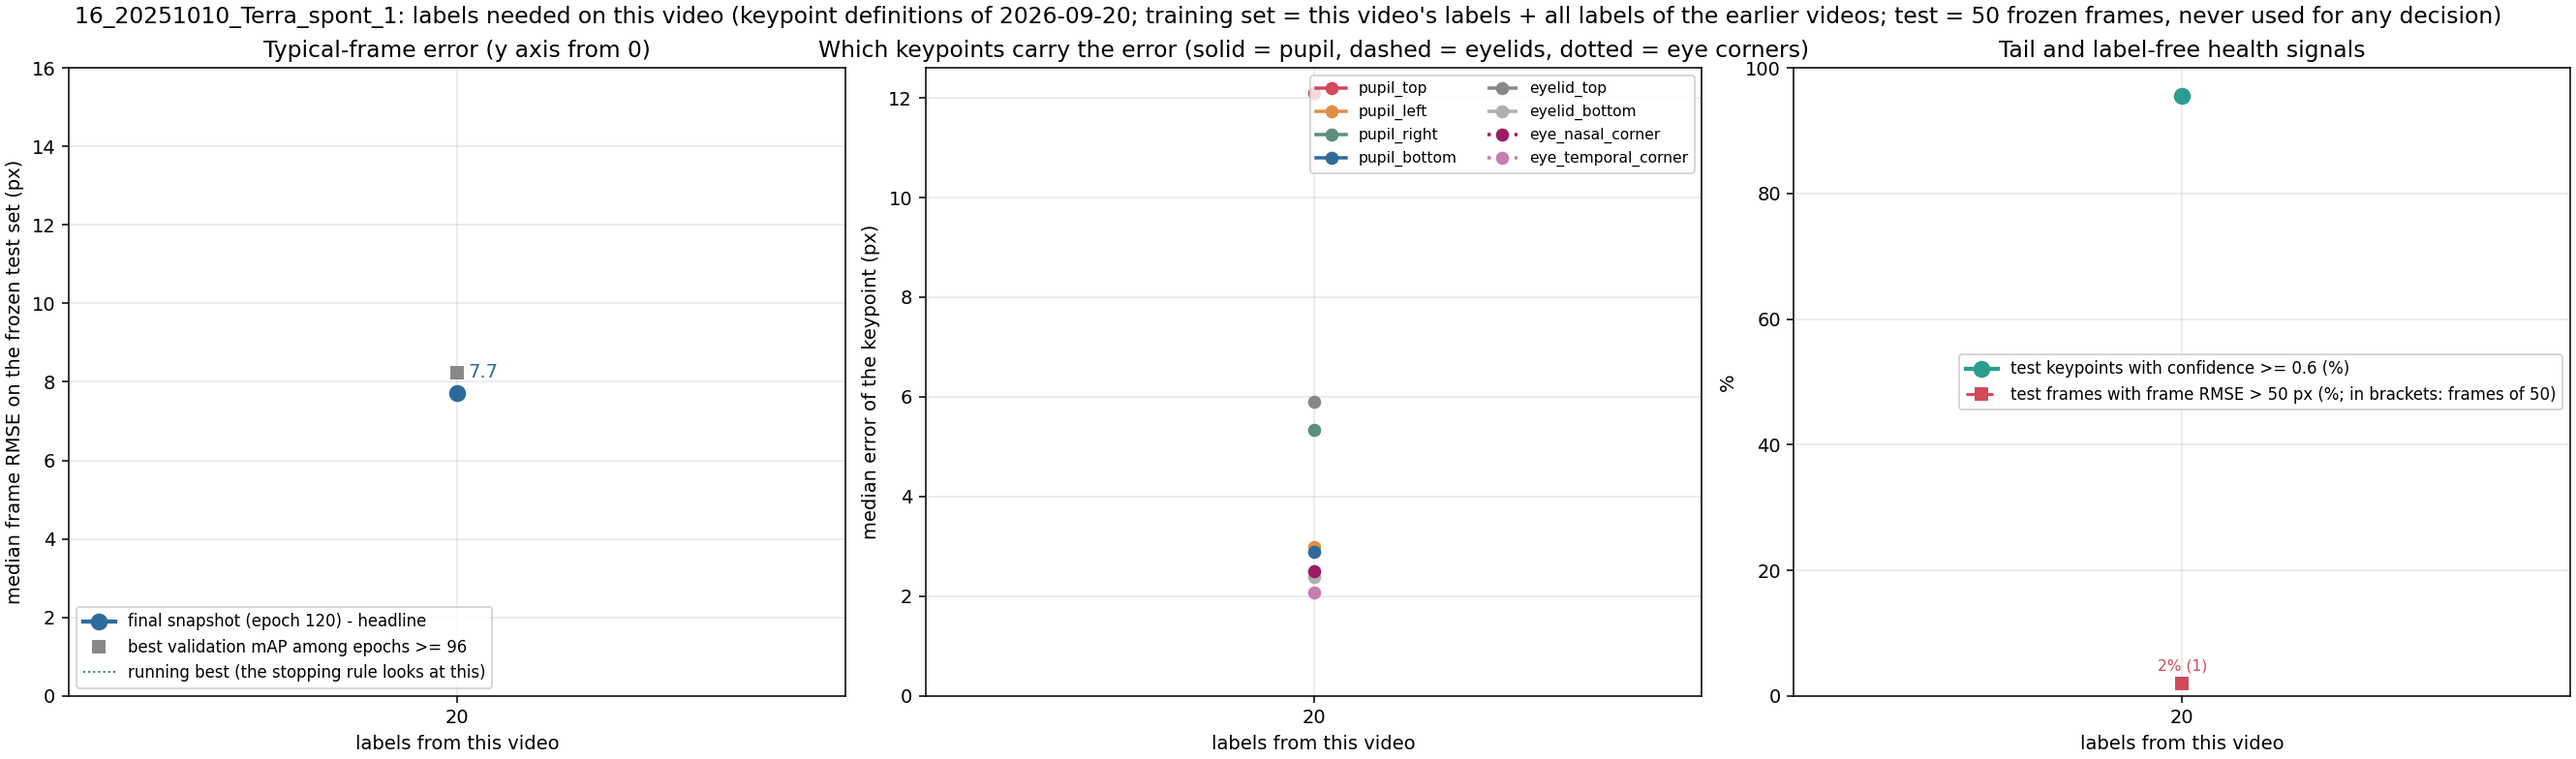
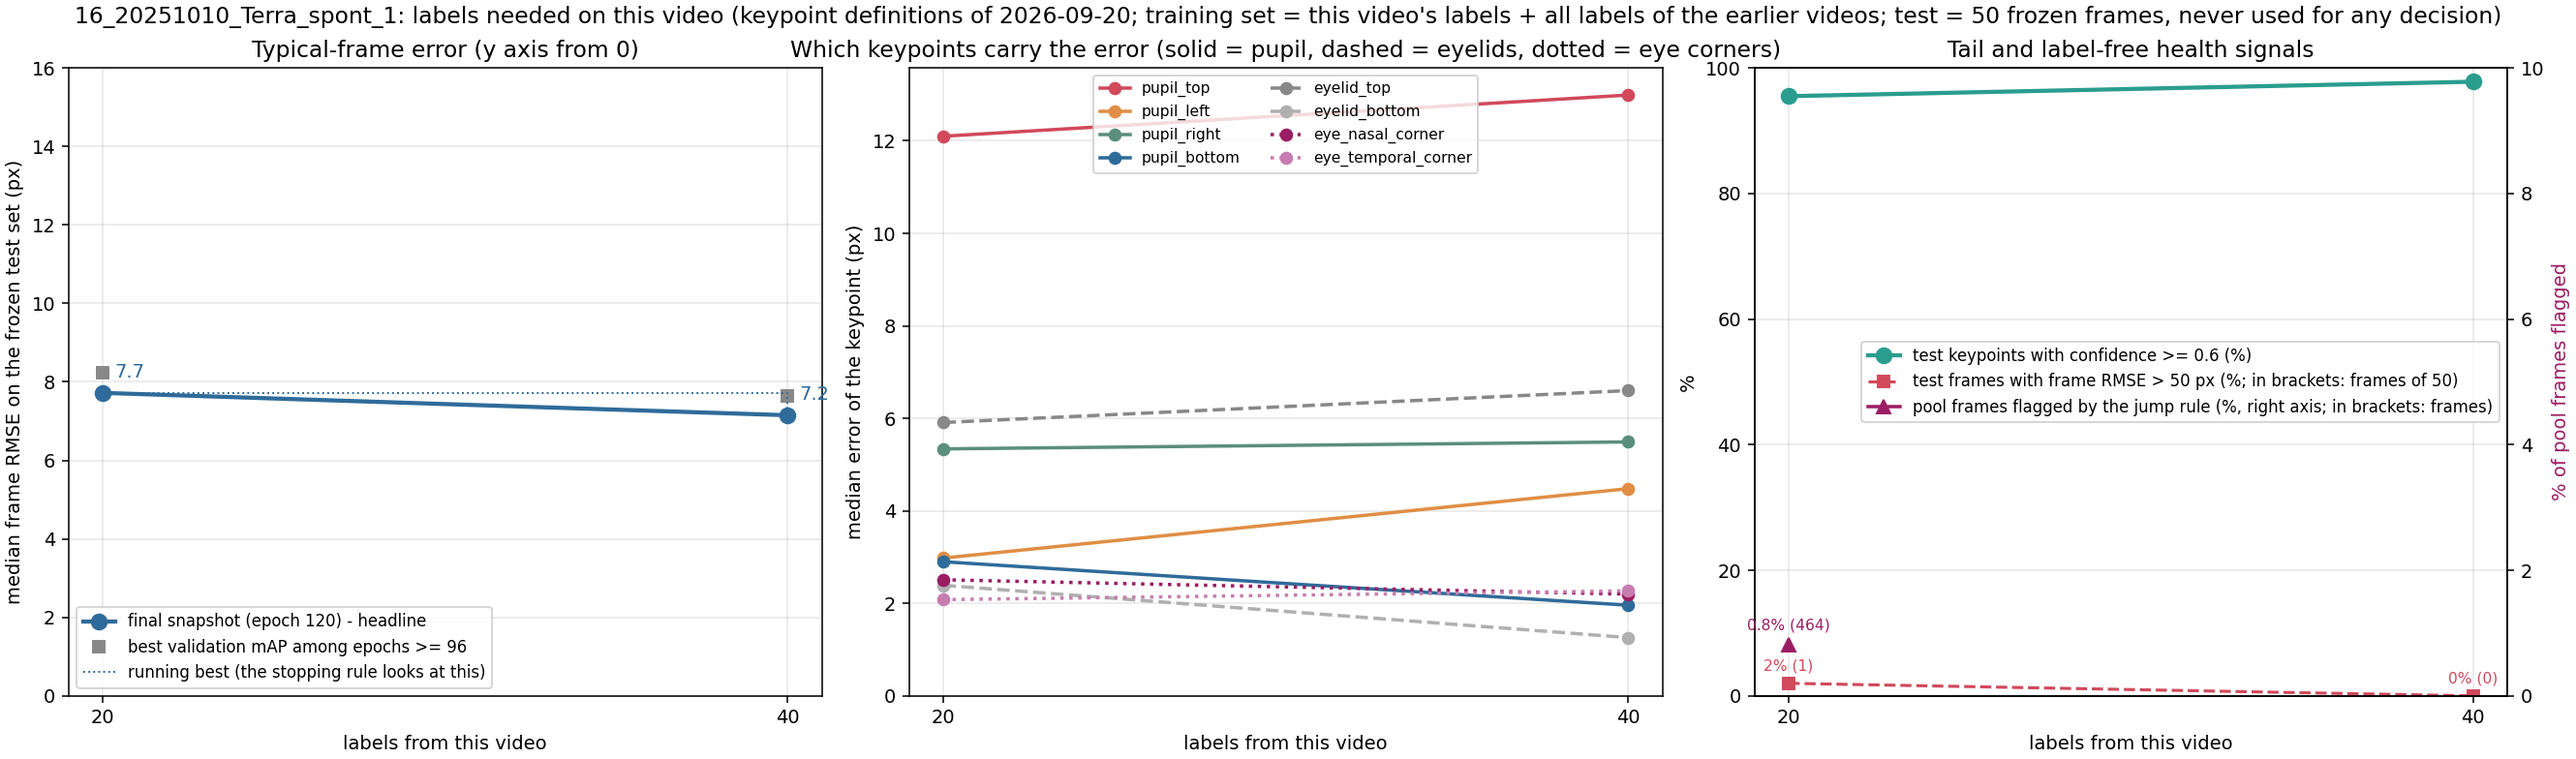
Video 16 step 2: 40 labels = 7.15 px (7.4% better than 7.72, improving step)

diff --git a/README.md b/README.md
@@ -29,7 +29,7 @@ per-frame predictions stay local; git carries code, documentation and audited ag
 | Finished | **video 13** (Terra, 2025-10-15, third video of mouse C): test50 / val20 / batch01 pre-labeled with the video-11 40-label model (1212) and corrected by the labeler (test50: 287 of 400 points moved), test set frozen; 0 labels (model 1212) = 69.13 px (56% of frames > 50 px: the model that fitted video 12 does not fit this day), 20 labels = 9.43 px, 40 labels = 9.44 px, 60 labels = 9.67 px (0% of frames > 50 px from 20 labels on): no step improves on 20 labels, the plateau rule fired at 60; **plateau at 20 labels, 9.43 px** (user decision 2026-10-06), tag `v0.9.15-video13-plateau`; batch01 (20 labels) carried, 600 labels go into video 14. Fewer-labels: 5 labels 10.46 / 16.03 px, 10 labels 11.24 / 10.29 px (first-batch size only, no jump selection afterwards; both above the 20-label 9.43 px). |
 | Finished | **video 14** (Terra, 2025-10-14, fourth video of mouse C): test50 / val20 / batch01 pre-labeled with the video-13 20-label model (1411) and corrected by the labeler (test50: 149 of 400 points moved), test set frozen; 0 labels (model 1411) = 13.33 px (16% of frames > 50 px), 20 labels = 10.83 px, 40 labels = 12.41 px, 60 labels = 10.30 px, 80 labels = 10.45 px, 100 labels = 10.24 px (2% of frames > 50 px from 20 labels on); 80 and 100 stay within 3% of 10.30, the plateau rule fired at 100; **plateau at 60 labels, 10.30 px** (user decision 2026-10-07), tag `v0.9.16-video14-plateau`; batches 1-3 (60 labels) carried, 660 labels go into video 15; batch 6 was selected but not labeled. Fewer-labels: 5 labels 10.93 / 10.22 px, 10 labels 9.82 / 10.06 px (first-batch size only, no jump selection afterwards; medians within 10% of the 20-label 10.83 px, subset 5b with 14% of frames > 50 px). |
 | Finished | **video 15** (Terra, 2025-10-13, fifth video of mouse C): frames extracted model-free; test50 pre-labeled with the video-14 20-label model (1511) before video 14's plateau was known (recorded as a deviation), val20 / batch01 with the plateau model 1513; 0 labels (model 1513) = 10.57 px, 20 labels = 11.42 px, 40 labels = 9.73 px, 60 labels = 9.61 px, 80 labels = 10.24 px (0-2% of frames > 50 px); 60 within 3% of 9.73 and 80 worse, the plateau rule fired at 80; **plateau at 40 labels, 9.73 px** (user decision 2026-10-08), tag `v0.9.17-video15-plateau`; batches 1-2 (40 labels) carried, 700 labels go into video 16; batch 5 selected but not labeled. Fewer-labels: 5 labels 12.55 / 9.82 px, 10 labels 11.09 / 9.31 px (first-batch size only, no jump selection afterwards; three of the four subsets below the 20-label 11.42 px). |
-| In progress | **video 16** (Terra, 2025-10-10): test50 / val20 / batch01 extracted on 2026-10-08 (model-free) and pre-labeled with the video-15 plateau model (1612, 40 labels) and corrected by the labeler on 2026-10-08 (test50: 136 of 400 points moved), test set frozen; 0 labels (model 1612) = 11.35 px (p90 23.1, 0% of frames > 50 px, 76% of keypoints with confidence >= 0.6); 20 labels (shuffle 1711) = 7.72 px (p90 11.5, 2% of frames > 50 px, 96% confidence; 32% better than the 0-label number); batch 2 selected (only 464 of 57158 pool frames flagged by the jump rule, 0.8%: the 20-label model tracks this day smoothly) and labeled; step 2 (40 labels) training. Fewer-labels: 5 labels 9.18 / 10.42 px, 10 labels 9.35 / 9.18 px (all above the 20-label 7.72 px). Training set of every step = 700 carried labels of videos 0-15 + this video's labels; shuffles 1711, 1712, ... |
+| In progress | **video 16** (Terra, 2025-10-10): test50 / val20 / batch01 extracted on 2026-10-08 (model-free) and pre-labeled with the video-15 plateau model (1612, 40 labels) and corrected by the labeler on 2026-10-08 (test50: 136 of 400 points moved), test set frozen; 0 labels (model 1612) = 11.35 px (p90 23.1, 0% of frames > 50 px, 76% of keypoints with confidence >= 0.6); 20 labels (shuffle 1711) = 7.72 px (p90 11.5, 2% of frames > 50 px, 96% confidence; 32% better than the 0-label number); batch 2 selected (only 464 of 57158 pool frames flagged by the jump rule, 0.8%: the 20-label model tracks this day smoothly) and labeled; 40 labels (shuffle 1712) = 7.15 px (p90 11.3, 0% > 50 px, 98% confidence; 7.4% better than 7.72, an improving step); batch 3 being selected (2026-10-09 13:30). Fewer-labels: 5 labels 9.18 / 10.42 px, 10 labels 9.35 / 9.18 px (all above the 20-label 7.72 px). Training set of every step = 700 carried labels of videos 0-15 + this video's labels; shuffles 1711, 1712, ... |
 | Analysis (2026-10-04) | blink and pupil area on all 12 finished videos (`v2_new_pupil_top_video_scaling/results/blink_and_area/`): four-point area median error 6.6% (three-point 8.3%); closed eye best detected by the mean confidence of the four pupil points (27 of 28 closed frames, 4.1% of open frames flagged; the earlier rule flags 55.7%); area traces still contain tracking jumps not covered by the closure rule. Error and confidence per keypoint (`.../results/keypoint_confidence_error/`): pupil top is the least accurate point (10.9 px median) |
 | Next | Terra units 17-18, one recording day each, newest first |
 
@@ -55,7 +55,7 @@ Labels needed per video (plateau = two consecutive 20-label steps that improve t
 | 13 | Terra (mouse C), 2025-10-15 | 580 | 69.13 / 9.43 / 9.44 / 9.67 px (v2) | 20 labels, 9.4 px (rule fired at 60) |
 | 14 | Terra (mouse C), 2025-10-14 | 600 | 13.33 / 10.83 / 12.41 / 10.30 / 10.45 / 10.24 px (v2) | 60 labels, 10.3 px (rule fired at 100) |
 | 15 | Terra (mouse C), 2025-10-13 | 660 | 10.57 / 11.42 / 9.73 / 9.61 / 10.24 px (v2) | 40 labels, 9.7 px (rule fired at 80) |
-| 16 | Terra (mouse C), 2025-10-10 | 700 | 11.35 / 7.72 px (v2, in progress) | – |
+| 16 | Terra (mouse C), 2025-10-10 | 700 | 11.35 / 7.72 / 7.15 px (v2, in progress) | – |
 
 What the numbers say:
 

diff --git a/v2_new_pupil_top_video_scaling/results/README.md b/v2_new_pupil_top_video_scaling/results/README.md
@@ -28,7 +28,7 @@ snapshot with the best validation mAP after the first learning-rate drop (epochs
 | 13 `13_20251015_Terra_spont_1` | mouse C (Terra), 19.9 min, 2025-10-15 | 580 (video 12 carries none) | convention v2: 69.13 / 9.43 / 9.44 / 9.67 | **20 labels** (rule fired at 60) | 9.43 px |
 | 14 `14_20251014_Terra_spont_1` | mouse C (Terra), 19.9 min, 2025-10-14 | 600 (580 + 20 of video 13) | convention v2: 13.33 / 10.83 / 12.41 / 10.30 / 10.45 / 10.24 | **60 labels** (rule fired at 100) | 10.30 px |
 | 15 `15_20251013_Terra_spont_1` | mouse C (Terra), 19.9 min, 2025-10-13 | 660 (600 + 60 of video 14) | convention v2: 10.57 / 11.42 / 9.73 / 9.61 / 10.24 | **40 labels** (rule fired at 80) | 9.73 px |
-| 16 `16_20251010_Terra_spont_1` | mouse C (Terra), 19.9 min, 2025-10-10 | 700 (660 + 40 of video 15) | convention v2: 11.35 / 7.72 | in progress | – |
+| 16 `16_20251010_Terra_spont_1` | mouse C (Terra), 19.9 min, 2025-10-10 | 700 (660 + 40 of video 15) | convention v2: 11.35 / 7.72 / 7.15 | in progress | – |
 
 `labels_to_plateau.png` / `labels_to_plateau.csv` (2026-09-30): the plateau point of every video in the sequence as one figure - labels needed (left) and the error at the plateau vs the 0-label error (right); `scripts/plot_labels_to_plateau.py`. The csv is the table above in machine-readable form and is updated when a video finishes.
 

diff --git a/v2_new_pupil_top_video_scaling/16_20251010_Terra_spont_1/results/README.md b/v2_new_pupil_top_video_scaling/16_20251010_Terra_spont_1/results/README.md
@@ -13,6 +13,7 @@ videos 7 and 12 contributed none; 700 in total) + this video's labels; shuffles 
 |---|---|---|---|---|---|
 | 0 (video-15 40-label model 1612, applied unchanged) | 11.35 px | 23.1 | 0% | 76% | – |
 | 20 (shuffle 1711) | 7.72 px | 11.5 | 2% | 96% | 464 of 57158 (0.8%) |
+| 40 (shuffle 1712) | 7.15 px | 11.3 | 0% | 98% | pending |
 
 The other Terra models give 9.7-14.1 px on this test set (the video-12 20-label model 1311 is the best at 9.70 px, the
 video-15 60-label model 11.52, the video-14 plateau model 12.08; `../results/cross_video_matrix.csv`).
@@ -25,3 +26,6 @@ otherwise as at the time: the 700 carried labels; shuffles 2161-2164). Size of t
 5 labels = 9.18 / 10.42 px (subsets a / b; p90 15.6 / 14.9), 10 labels = 9.35 / 9.18 px (p90 15.3 / 13.8), against 11.35 px at
 0 labels and 7.72 px at 20: every subset improves on the 0-label model, none reaches the 20-label number (19-35% above it);
 figure `fewer_labels.png`.
+
+Step 2 (40 labels): 7.15 px, 7.4% better than the running best 7.72 px (step 1): an improving step (2026-10-09 13:25); no test
+frame above 50 px, 98% of keypoints confident. Batch 3 is selected from the 40-label model.
